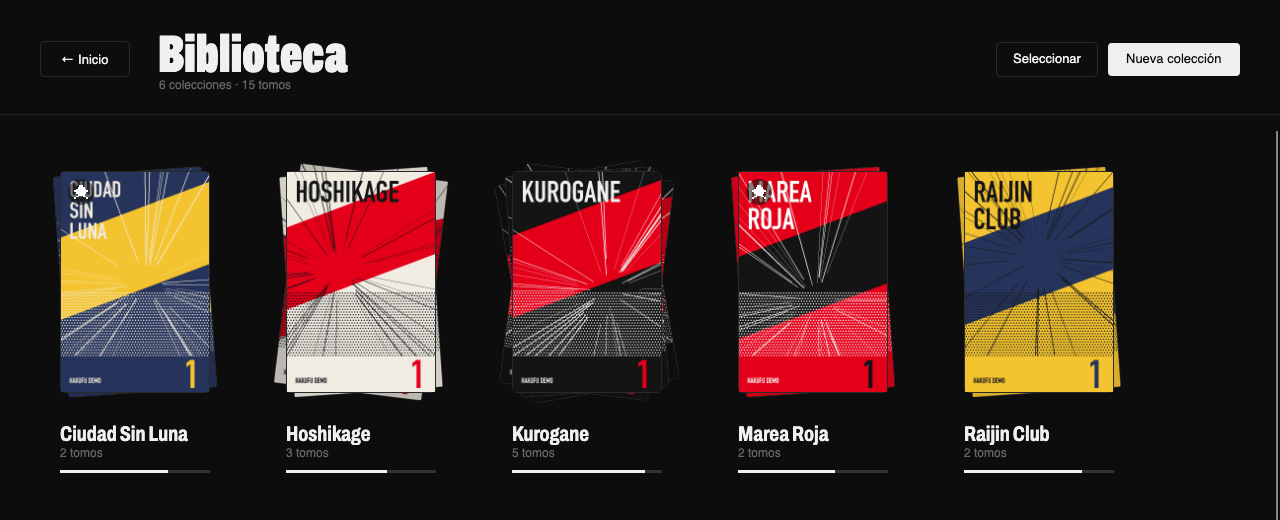
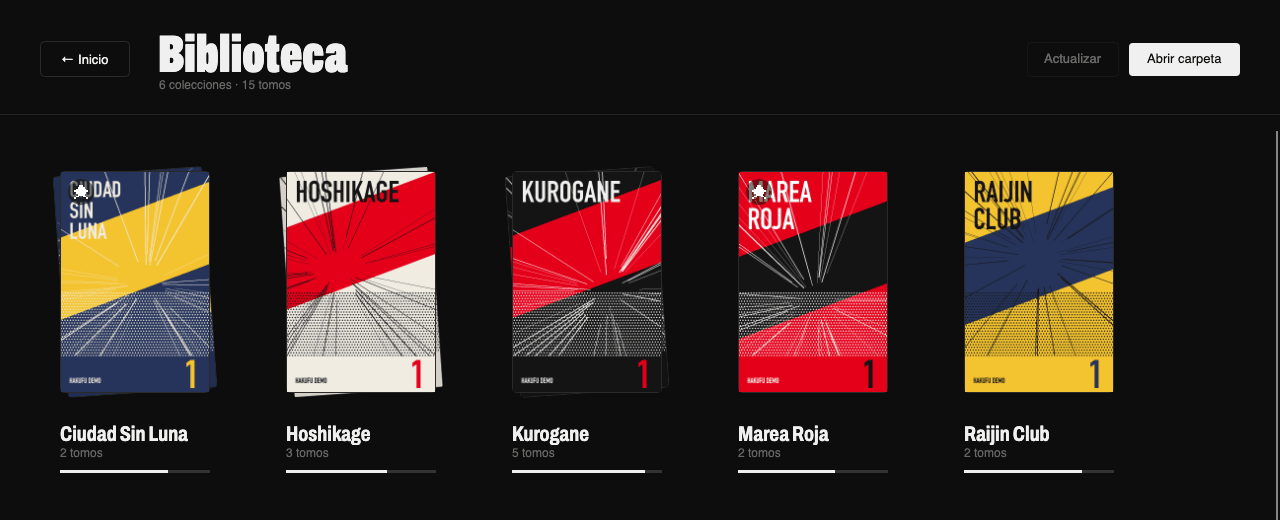
HMR ayuda: capturas con la biblioteca por carpetas y aviso legal que apunta a Ajustes

diff --git a/tests/Hakufu.Tests/HelpScreenshots.cs b/tests/Hakufu.Tests/HelpScreenshots.cs
@@ -39,15 +39,17 @@ public class HelpScreenshots
         var store = repo.Current;
         var rnd = new Random(7);
         var day = DateTime.Now;
+        store.LibraryRoot = src; // la carpeta de la biblioteca: subcarpetas = colecciones
 
         foreach (var dir in Directory.GetDirectories(src).Order())
         {
-            var col = new Collection { Name = Path.GetFileName(dir), CreatedAt = day };
+            var col = new Collection { Name = Path.GetFileName(dir), RelativePath = Path.GetFileName(dir), CreatedAt = day };
             foreach (var file in Directory.GetFiles(dir, "*.cbz").Order())
             {
                 var manga = new Manga
                 {
                     Title = Path.GetFileNameWithoutExtension(file), FilePath = file,
+                    RelativePath = Path.GetRelativePath(src, file).Replace('\\', '/'),
                     TotalPages = 7, DateAdded = day,
                 };
                 store.Mangas.Add(manga);
@@ -114,6 +116,8 @@ public class HelpScreenshots
         Shot("reader");
         root.Navigation.NavigateTo<ProfileViewModel>();
         Shot("profile");
+        // En la captura, una ruta de ejemplo legible en vez de la carpeta temporal.
+        store.LibraryRoot = OperatingSystem.IsWindows() ? @"C:\Users\tú\Documentos\Manga" : "~/Documentos/Manga";
         root.Navigation.NavigateTo<SettingsViewModel>();
         Shot("settings", new PixelRect((W - 760) / 2, 100, 760, H - 100)); // columna central
         root.Navigation.NavigateTo<BackupViewModel>();

diff --git a/MVVM/ViewModel/LegalViewModel.cs b/MVVM/ViewModel/LegalViewModel.cs
@@ -33,7 +33,7 @@ public class LegalViewModel : BaseViewModel
             "desinstalarla de inmediato de cualquier dispositivo bajo su control. El Desarrollador se reserva el " +
             "derecho a modificar estos Términos en cualquier momento y sin previo aviso individualizado; la " +
             "versión vigente será siempre la publicada en el repositorio oficial de distribución de la Aplicación " +
-            "y/o mostrada dentro de la propia Aplicación en la sección de Ayuda."),
+            "y/o mostrada dentro de la propia Aplicación, en Ajustes → Acerca de."),
 
         new("2. Naturaleza de la Aplicación y ausencia de contenidos propios",
             "Hakufu es, exclusivamente, una herramienta local de organización, catalogación y lectura de archivos " +
